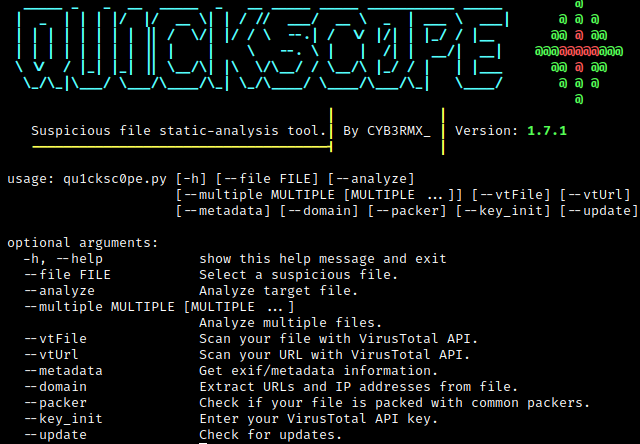
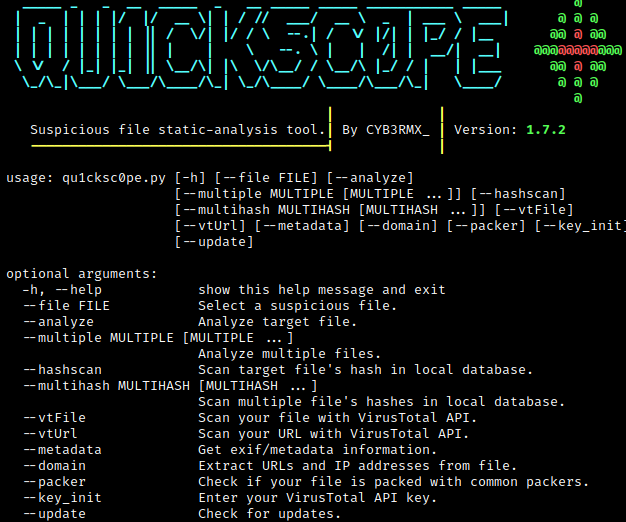
News 16/10/2020 00:28

Changed region(s): [[0.0, 0.0, 1.0, 0.4977], [0.0, 0.4977, 0.9409, 1.0]]

diff --git a/README.md b/README.md
@@ -47,6 +47,14 @@ Qu1cksc0pe aims to get even more information about suspicious files and helps to
 <b>Usage</b>: ```python3 qu1cksc0pe.py --multiple FILE1 FILE2 ...```<br>
 ![animation](.animations/multi.gif)
 
+## Hash scan
+<b>Usage</b>: ```python3 qu1cksc0pe.py --file suspicious_file --hashscan```<br>
+![animation](.animations/hashscan.gif)
+
+## Multiple hash scanning
+<b>Usage</b>: ```python3 qu1cksc0pe.py --multihash FILE1 FILE2 ...```<br>
+![animation](.animations/multihash.gif)
+
 ## VirusTotal
 <b>Usage for --vtFile</b>: ```python3 qu1cksc0pe.py --file suspicious_file --vtFile```<br>
 <b>Usage for --vtUrl</b>: ```python3 qu1cksc0pe.py --vtUrl```<br>
